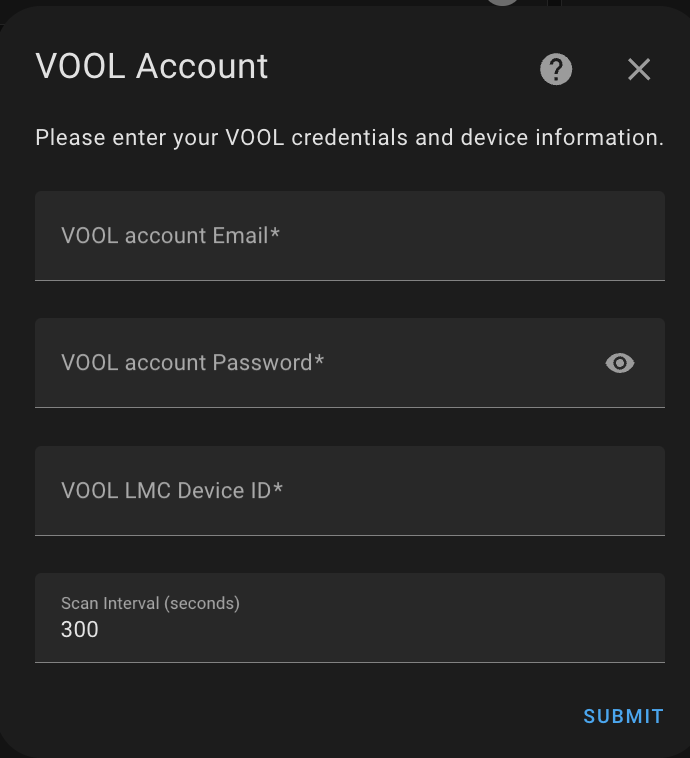
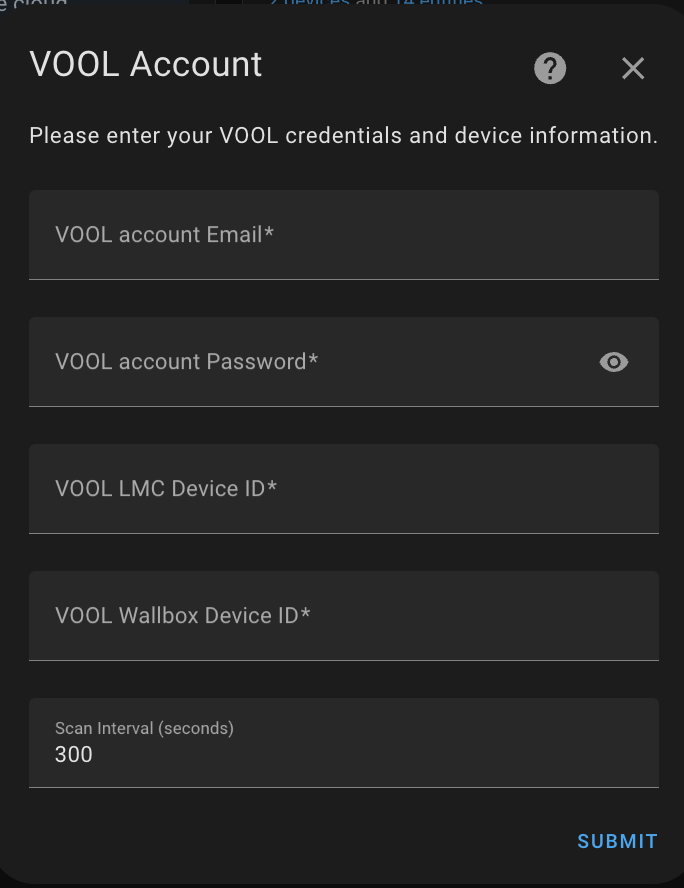
Added support for both LMC and Wallbox data

diff --git a/sensor.py b/sensor.py
@@ -11,7 +11,7 @@ from homeassistant.const import (
 from homeassistant.helpers.entity import DeviceInfo
 from homeassistant.helpers.update_coordinator import CoordinatorEntity
 
-from .const import DOMAIN
+from .const import DOMAIN, CONF_LMC_DEVICE_ID, CONF_WALLBOX_DEVICE_ID
 from .coordinator import VoolCoordinator
 
 async def async_setup_entry(
@@ -20,45 +20,62 @@ async def async_setup_entry(
     """Set up the Vool sensor platform."""
     coordinator = hass.data[DOMAIN][entry.entry_id]
 
-    entities = [
-        VoolPowerSensor(coordinator, "active_power", "Active Power", POWER_WATT, True),
-        VoolPowerSensor(coordinator, "current_l1", "Current L1", ELECTRIC_CURRENT_AMPERE),
-        VoolPowerSensor(coordinator, "current_l2", "Current L2", ELECTRIC_CURRENT_AMPERE),
-        VoolPowerSensor(coordinator, "current_l3", "Current L3", ELECTRIC_CURRENT_AMPERE),
-        VoolPowerSensor(coordinator, "voltage_l1", "Voltage L1", ELECTRIC_POTENTIAL_VOLT),
-        VoolPowerSensor(coordinator, "voltage_l2", "Voltage L2", ELECTRIC_POTENTIAL_VOLT),
-        VoolPowerSensor(coordinator, "voltage_l3", "Voltage L3", ELECTRIC_POTENTIAL_VOLT),
-    ]
+    entities = []
+    for device_type in ['lmc', 'wallbox']:
+        entities.extend([
+            VoolPowerSensor(coordinator, device_type, "active_power", "Active Power", POWER_WATT, True),
+            VoolPowerSensor(coordinator, device_type, "current_l1", "Current L1", ELECTRIC_CURRENT_AMPERE),
+            VoolPowerSensor(coordinator, device_type, "current_l2", "Current L2", ELECTRIC_CURRENT_AMPERE),
+            VoolPowerSensor(coordinator, device_type, "current_l3", "Current L3", ELECTRIC_CURRENT_AMPERE),
+            VoolPowerSensor(coordinator, device_type, "voltage_l1", "Voltage L1", ELECTRIC_POTENTIAL_VOLT),
+            VoolPowerSensor(coordinator, device_type, "voltage_l2", "Voltage L2", ELECTRIC_POTENTIAL_VOLT),
+            VoolPowerSensor(coordinator, device_type, "voltage_l3", "Voltage L3", ELECTRIC_POTENTIAL_VOLT),
+        ])
 
     async_add_entities(entities)
 
 class VoolPowerSensor(CoordinatorEntity, SensorEntity):
     """Representation of a Vool Power Sensor."""
 
-    def __init__(self, coordinator: VoolCoordinator, key: str, name: str, unit: str, convert_to_watts: bool = False):
+    def __init__(self, coordinator: VoolCoordinator, device_type: str, key: str, name: str, unit: str, convert_to_watts: bool = False):
         """Initialize the sensor."""
         super().__init__(coordinator)
+        self._device_type = device_type
         self._key = key
         self._name = name
         self._unit = unit
         self._convert_to_watts = convert_to_watts
-        self._attr_unique_id = f"{coordinator.api.device_id}_{key}"
+        
+        # Safely get the device ID, falling back to the one from config if not found in data
+        device_id = self._get_device_id(coordinator, device_type)
+        self._attr_unique_id = f"{device_id}_{key}"
+
+    def _get_device_id(self, coordinator, device_type):
+        """Safely get the device ID."""
+        try:
+            return coordinator.data[device_type]['deviceStatus']['deviceId']
+        except (KeyError, TypeError):
+            # Fallback to the device ID from the config entry
+            return getattr(coordinator, f"{device_type}_api").device_id
 
     @property
     def name(self):
         """Return the name of the sensor."""
-        return f"Vool {self._name}"
+        return f"Vool {self._device_type.upper()} {self._name}"
 
     @property
     def state(self):
         """Return the state of the sensor."""
         if self.coordinator.data:
-            connectors = self.coordinator.data.get('deviceStatus', {}).get('connectors', [])
-            if connectors:
-                value = connectors[0].get(self._key)
-                if value is not None and self._convert_to_watts:
-                    return value * 1000  # Convert kW to W
-                return value
+            try:
+                connectors = self.coordinator.data[self._device_type]['deviceStatus']['connectors']
+                if connectors:
+                    value = connectors[0].get(self._key)
+                    if value is not None and self._convert_to_watts:
+                        return value * 1000  # Convert kW to W
+                    return value
+            except (KeyError, TypeError, IndexError):
+                pass
         return None
 
     @property
@@ -69,10 +86,11 @@ class VoolPowerSensor(CoordinatorEntity, SensorEntity):
     @property
     def device_info(self):
         """Return device information about this Vool device."""
+        device_id = self._get_device_id(self.coordinator, self._device_type)
         return DeviceInfo(
-            identifiers={(DOMAIN, self.coordinator.api.device_id)},
-            name="Vool Power Monitor",
+            identifiers={(DOMAIN, device_id)},
+            name=f"Vool {self._device_type.upper()}",
             manufacturer="Vool",
             model="Power Monitor",
-            sw_version=self.coordinator.data.get("firmwareVersion") if self.coordinator.data else None,
+            sw_version=self.coordinator.data[self._device_type].get("firmwareVersion") if self.coordinator.data else None,
         )

diff --git a/coordinator.py b/coordinator.py
@@ -6,7 +6,7 @@ from homeassistant.core import HomeAssistant
 from homeassistant.helpers.update_coordinator import DataUpdateCoordinator, UpdateFailed
 from homeassistant.exceptions import ConfigEntryAuthFailed
 
-from .const import DOMAIN, CONF_SCAN_INTERVAL
+from .const import DOMAIN, CONF_SCAN_INTERVAL, CONF_LMC_DEVICE_ID, CONF_WALLBOX_DEVICE_ID
 from .vool_api import VoolAPI, InvalidAuth
 
 _LOGGER = logging.getLogger(__name__)
@@ -16,7 +16,9 @@ class VoolCoordinator(DataUpdateCoordinator):
 
     def __init__(self, hass: HomeAssistant, entry):
         """Initialize."""
-        self.api = VoolAPI(entry.data["email"], entry.data["password"], entry.data["device_id"])
+        self.lmc_api = VoolAPI(entry.data["email"], entry.data["password"], entry.data[CONF_LMC_DEVICE_ID])
+        self.wallbox_api = VoolAPI(entry.data["email"], entry.data["password"], entry.data[CONF_WALLBOX_DEVICE_ID])
+        
         super().__init__(
             hass,
             _LOGGER,
@@ -27,8 +29,24 @@ class VoolCoordinator(DataUpdateCoordinator):
     async def _async_update_data(self):
         """Fetch data from Vool."""
         try:
-            return await self.api.get_device_status()
+            lmc_data = await self.lmc_api.get_device_status()
+            wallbox_data = await self.wallbox_api.get_device_status()
+            
+            # Ensure the device ID is included in the data structure
+            if lmc_data and 'deviceStatus' in lmc_data:
+                lmc_data['deviceStatus']['deviceId'] = self.lmc_api.device_id
+            if wallbox_data and 'deviceStatus' in wallbox_data:
+                wallbox_data['deviceStatus']['deviceId'] = self.wallbox_api.device_id
+            
+            return {
+                "lmc": lmc_data,
+                "wallbox": wallbox_data
+            }
         except InvalidAuth as err:
             raise ConfigEntryAuthFailed from err
         except Exception as err:
             raise UpdateFailed(f"Error communicating with API: {err}") from err
+
+    async def async_refresh(self):
+        """Refresh data from Vool."""
+        await self.async_request_refresh()

diff --git a/config_flow.py b/config_flow.py
@@ -6,31 +6,33 @@ from typing import Any
 import voluptuous as vol
 
 from homeassistant import config_entries
-from homeassistant.const import CONF_EMAIL, CONF_PASSWORD, CONF_DEVICE_ID
+from homeassistant.const import CONF_EMAIL, CONF_PASSWORD
 from homeassistant.core import HomeAssistant
 from homeassistant.data_entry_flow import FlowResult
 from homeassistant.exceptions import HomeAssistantError
 
-from .const import DOMAIN, CONF_SCAN_INTERVAL
+from .const import DOMAIN, CONF_SCAN_INTERVAL, CONF_LMC_DEVICE_ID, CONF_WALLBOX_DEVICE_ID
 from .vool_api import VoolAPI
 
 STEP_USER_DATA_SCHEMA = vol.Schema(
     {
         vol.Required(CONF_EMAIL): str,
         vol.Required(CONF_PASSWORD): str,
-        vol.Required(CONF_DEVICE_ID): str,
+        vol.Required(CONF_LMC_DEVICE_ID): str,
+        vol.Required(CONF_WALLBOX_DEVICE_ID): str,
         vol.Optional(CONF_SCAN_INTERVAL, default=300): int,
     }
 )
 
 async def validate_input(hass: HomeAssistant, data: dict[str, Any]) -> dict[str, Any]:
     """Validate the user input allows us to connect."""
-    api = VoolAPI(data[CONF_EMAIL], data[CONF_PASSWORD], data[CONF_DEVICE_ID])
+    lmc_api = VoolAPI(data[CONF_EMAIL], data[CONF_PASSWORD], data[CONF_LMC_DEVICE_ID])
+    wallbox_api = VoolAPI(data[CONF_EMAIL], data[CONF_PASSWORD], data[CONF_WALLBOX_DEVICE_ID])
 
-    if not await api.authenticate():
+    if not await lmc_api.authenticate() or not await wallbox_api.authenticate():
         raise InvalidAuth
 
-    return {"title": f"Vool Device {data[CONF_DEVICE_ID]}"}
+    return {"title": f"Vool LMC {data[CONF_LMC_DEVICE_ID]} and Wallbox {data[CONF_WALLBOX_DEVICE_ID]}"}
 
 class ConfigFlow(config_entries.ConfigFlow, domain=DOMAIN):
     """Handle a config flow for Vool."""

diff --git a/const.py b/const.py
@@ -1,3 +1,6 @@
 """Constants for the Vool integration."""
+
 DOMAIN = "vool"
 CONF_SCAN_INTERVAL = "scan_interval"
+CONF_LMC_DEVICE_ID = "lmc_device_id"
+CONF_WALLBOX_DEVICE_ID = "wallbox_device_id"

diff --git a/README.md b/README.md
@@ -1,6 +1,6 @@
 # VOOL Home Assistant integration
 
-This integration hooks to your [VOOL](https://www.vool.com/) EV charger Load Management Controller ([LMC](https://www.vool.com/products/vool-lmc/)) data and records usage of all power phases and that info can then be used in automations etc.
+This integration hooks to your [VOOL](https://www.vool.com/) [EV charger Wallbox](https://www.vool.com/products/vool-charger/) and Load Management Controller ([LMC](https://www.vool.com/products/vool-lmc/)) data and records usage of all power phases and total power. That info can then be used in automations etc.
 
 ## Installation
 To install the VOOL Home Assistant integration, follow these steps:
@@ -17,9 +17,13 @@ To install the VOOL Home Assistant integration, follow these steps:
 Once the VOOL integration is installed, you can configure it by adding it as an integration to your HA instance
 ![searching for integration](img/image1.png) and then inserting the required information
 ![Configuration options](img/image2.png) 
-The LMC device ID can be retreived by logging into your VOOL account on their webpage and navigation to the LMC overwiew page. The ID will be part of the URL https://app.vool.com/devices/{device-id}/overview. Just copy the value from there.
+The Wallbox and LMC device ID can be retreived by logging into your VOOL account on their webpage and navigation to the Wallbox or LMC overview page. The ID will be part of the URL https://app.vool.com/devices/{device-id}/overview. Just copy the value from there.
 
 The default polling interval is 300 sec. To get representative current data and if your HA hardware is powerful enough it should be set to a lower value (30-60 sec).
 
-Once the integration is successfully configured, you will be able to access the VOOL LMC `actual power`, `phase current` and `phase voltage` data and use it in your automations and scripts.
+Once the integration is successfully configured, you will be able to access the VOOL Wallbox and LMC `actual power`, `phase current` and `phase voltage` data and use it in your automations and scripts.
 ![VOOL LMC device in HA](img/image3.png)
+
+## What next?
+You can for example create a dashboard to get an overview of your home and also EV charger energy usage and trends. 
+![Examople dashboard](img/image4.png)
